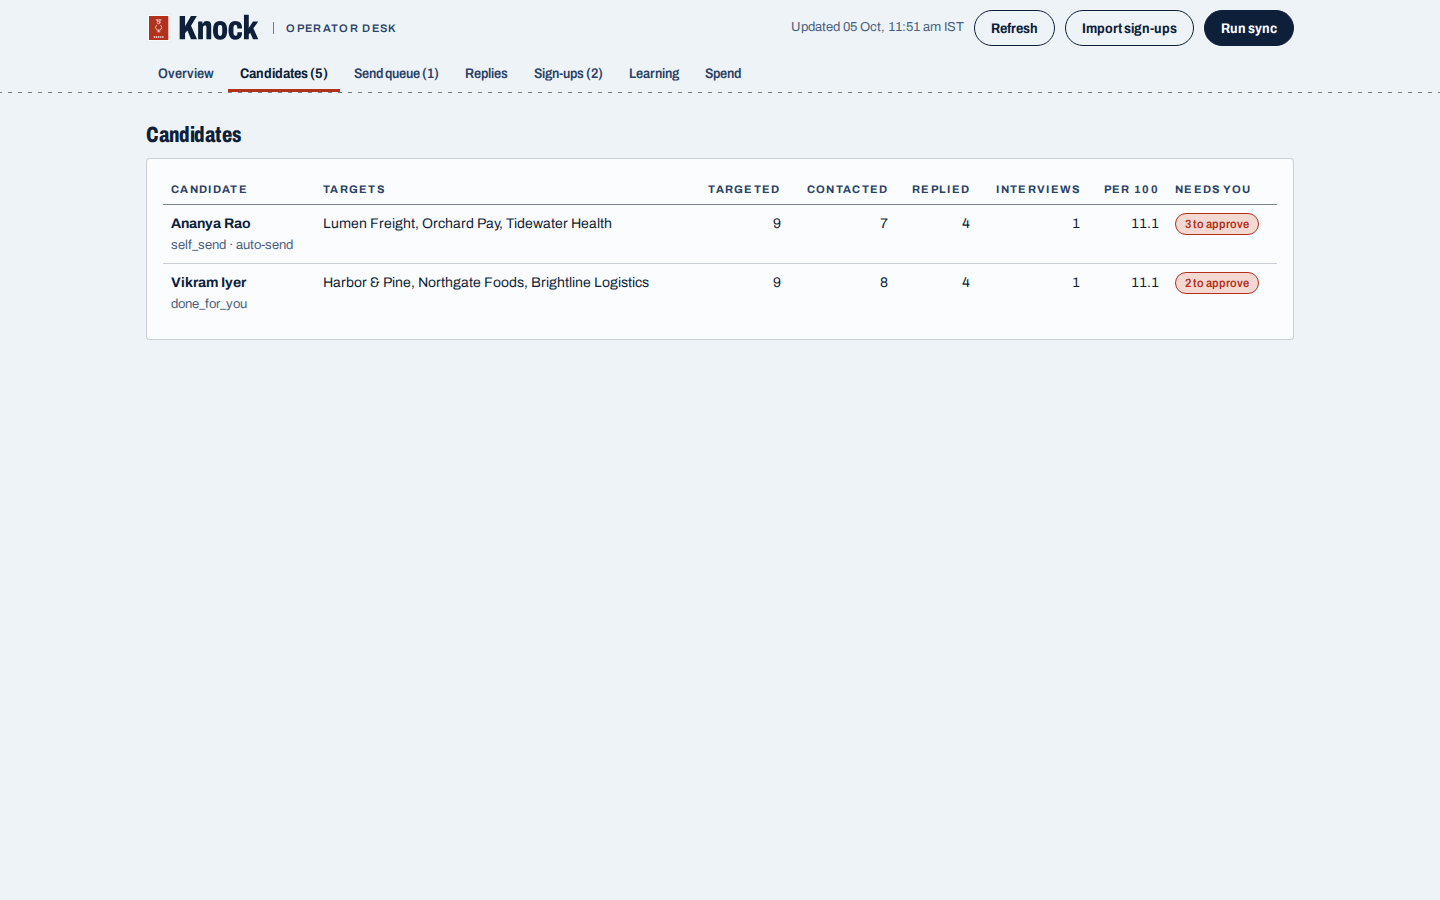
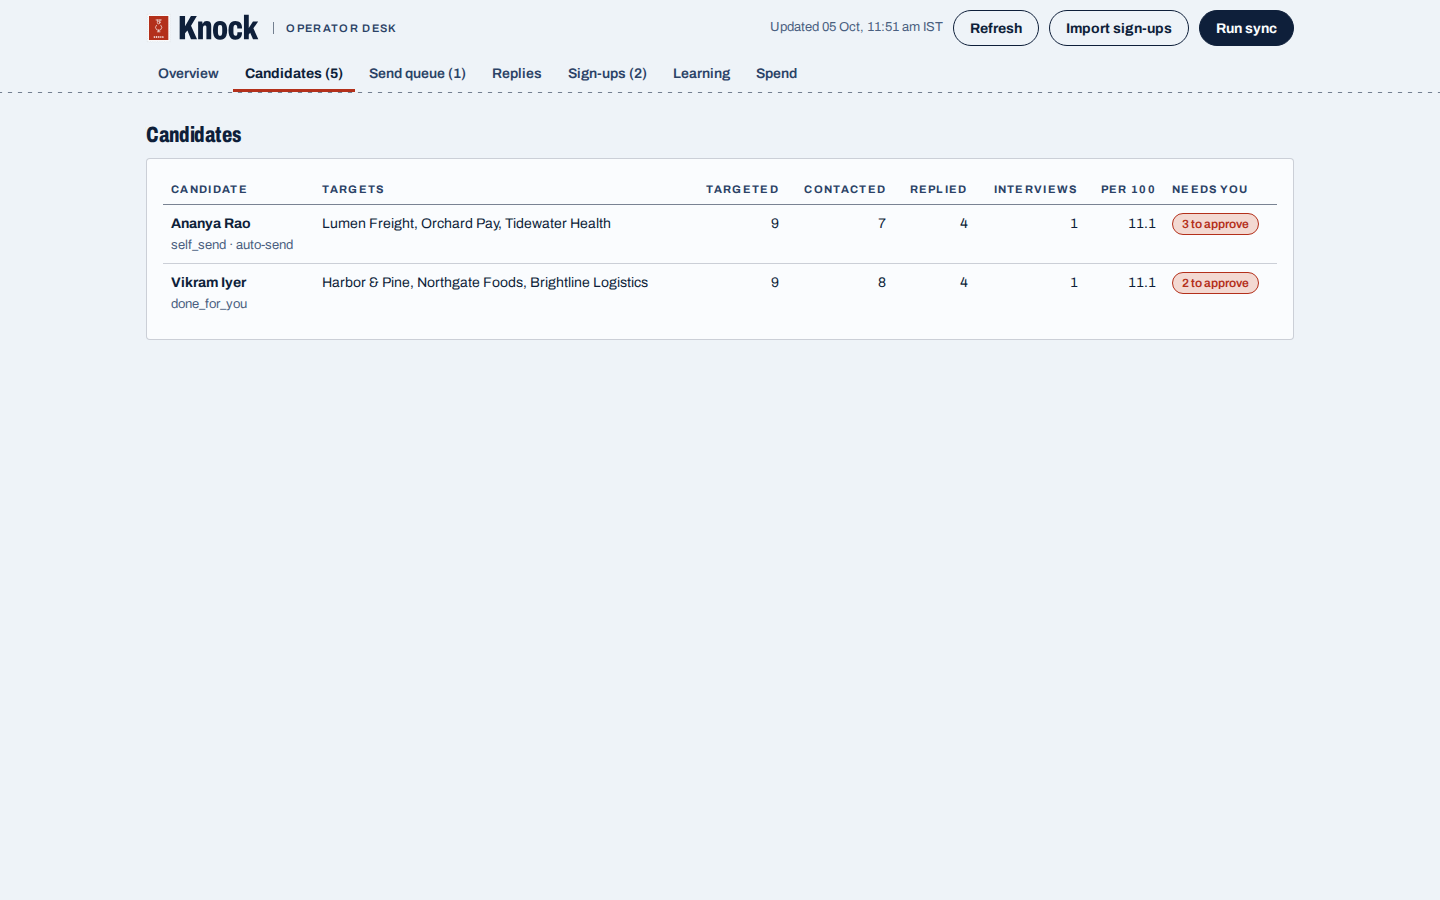
Rebrand CRM to Knock brand kit; demo server and screenshots
Claude-Session: https://claude.ai/code/session_01Q1YFQVkqvZuZSxHETxCkHf

diff --git a/deploy/public/crm/index.html b/deploy/public/crm/index.html
@@ -53,10 +53,10 @@ header.top::after{content:"";display:block;height:6px;background:radial-gradient
 .brand small{font:600 11px var(--body);letter-spacing:.12em;text-transform:uppercase;color:var(--ink-2);border-left:1px solid var(--rule-strong);padding-left:12px}
 .spacer{flex:1}
 nav.tabs{display:flex;gap:2px;overflow-x:auto;max-width:1180px;margin:0 auto;padding:0 16px}
-nav.tabs button{background:none;border:0;border-bottom:3px solid transparent;color:var(--ink-2);font:600 14px var(--body);font-variation-settings:"wdth" 88;padding:10px 12px 8px;cursor:pointer;white-space:nowrap}
+nav.tabs button{background:none;border:0;border-bottom:3px solid transparent;color:var(--ink-2);font:600 14px var(--body);padding:10px 12px 8px;cursor:pointer;white-space:nowrap}
 nav.tabs button:hover{color:var(--ink)}
 nav.tabs button[aria-selected="true"]{color:var(--ink);border-bottom-color:var(--post);font-weight:700}
-button.btn{background:var(--btn-bg);color:var(--btn-fg);border:1.5px solid var(--btn-bg);border-radius:99px;min-height:36px;padding:6px 16px;font:700 14px var(--body);font-variation-settings:"wdth" 88;cursor:pointer;transition:background .25s var(--ease),border-color .25s var(--ease),color .25s var(--ease)}
+button.btn{background:var(--btn-bg);color:var(--btn-fg);border:1.5px solid var(--btn-bg);border-radius:99px;min-height:36px;padding:6px 16px;font:700 14px var(--body);cursor:pointer;transition:background .25s var(--ease),border-color .25s var(--ease),color .25s var(--ease)}
 button.btn:hover{background:var(--post);border-color:var(--post);color:#FAFCFE}
 button.btn.ghost{background:transparent;color:var(--ink);border-color:var(--ink)}
 button.btn.ghost:hover{background:var(--ink);border-color:var(--ink);color:var(--bg)}
@@ -68,7 +68,7 @@ h3{font:700 15px var(--body);margin:0 0 8px}
 .tile{background:var(--panel);border:1px solid var(--rule);border-radius:4px;padding:12px 14px}
 .tile .k{color:var(--ink-2);font-size:11px;font-weight:600;letter-spacing:.12em;text-transform:uppercase}
 .tile .v{font:800 34px/1 var(--display);font-variation-settings:"wdth" 72;font-stretch:72%;font-variant-numeric:tabular-nums lining-nums;margin-top:8px}
-.tile.alert{border-color:var(--post);border-left-width:4px}
+.tile.alert{border-left:4px solid var(--post)}
 .tile.alert .v{color:var(--post)}
 .panel{background:var(--panel);border:1px solid var(--rule);border-radius:4px;padding:16px;min-width:0}
 .tablewrap{overflow-x:auto}
@@ -79,7 +79,7 @@ tbody tr:last-child td{border-bottom:0}
 td.num,th.num{font-variant-numeric:tabular-nums lining-nums;text-align:right}
 tr.click{cursor:pointer}
 tr.click:hover td{background:var(--hover)}
-.chip{display:inline-block;padding:1px 9px;border-radius:99px;background:var(--in-bg);color:var(--in-fg);border:1px solid transparent;font:600 12px/1.5 var(--body);font-variation-settings:"wdth" 90;white-space:nowrap}
+.chip{display:inline-block;padding:1px 9px;border-radius:99px;background:var(--in-bg);color:var(--in-fg);border:1px solid transparent;font:600 12px/1.5 var(--body);white-space:nowrap}
 .chip.ok{background:var(--ink);color:var(--bg)}
 .chip.warn{background:var(--post-soft);color:var(--post);border-color:var(--post)}
 .chip.bad{background:transparent;color:var(--ink-2);border:1px dashed var(--rule-strong)}
